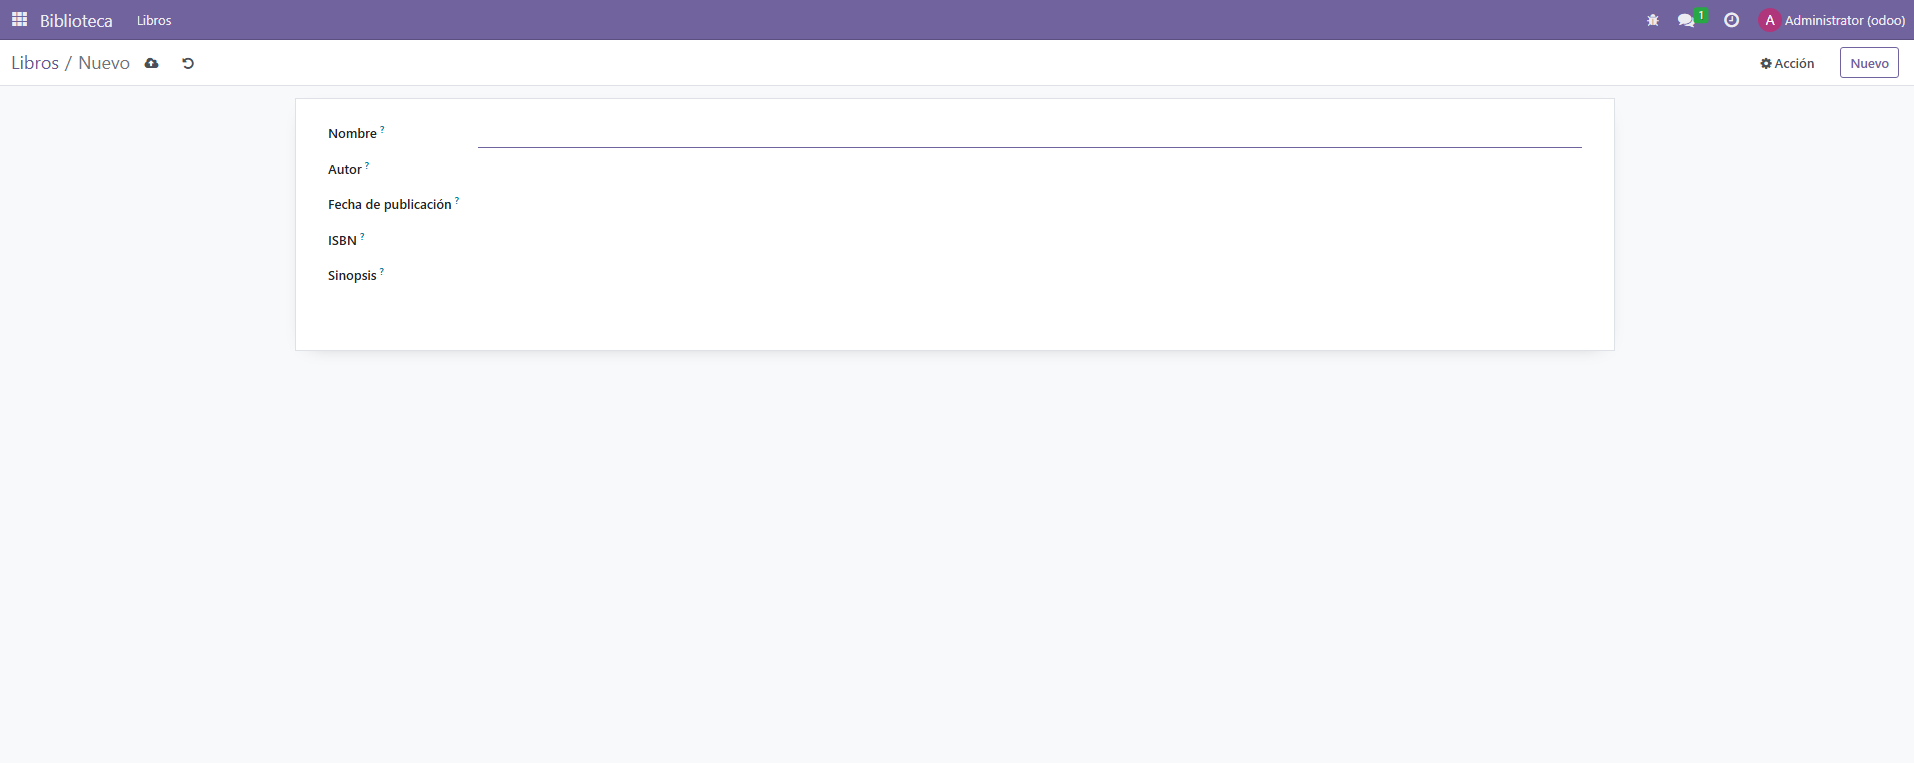
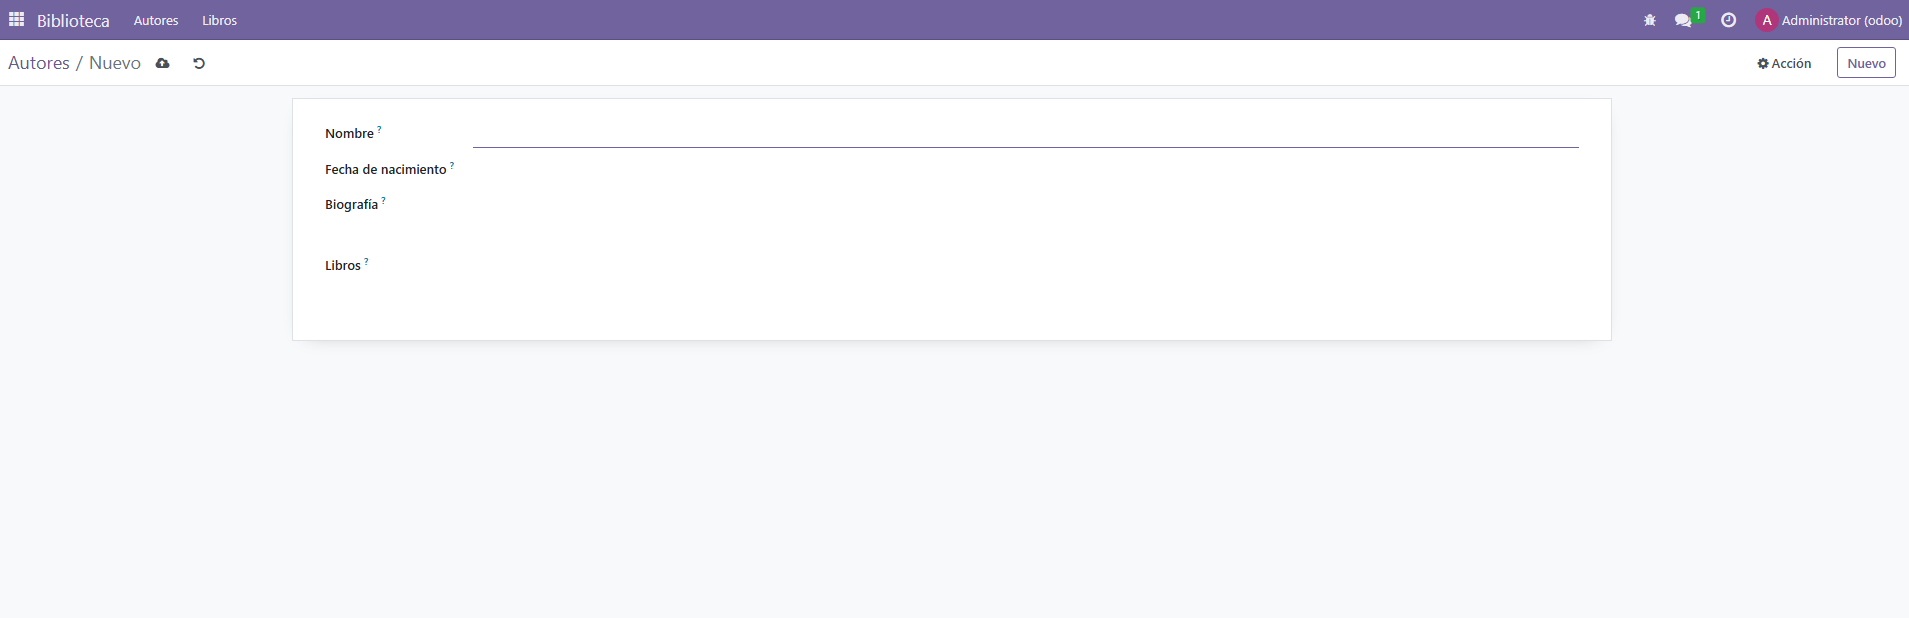
Corrigiendo errores x2

diff --git a/ut05/PR0502/PR0502.md b/ut05/PR0502/PR0502.md
@@ -221,14 +221,16 @@ Aquí vemos que funciona el modulo.
 11 - Vemos que en el menú nos aparece el modulo Biblioteca. Pinchamos ahí.
 ![Imagen 5](./imagenes/imagen5.png)
 
-12 - Ahora nos sale para poder crear un libro nuevo. Pinchamos ahí.
+12 - Ahora nos sale para poder crear un libro nuevo y un autor nuevo. Pinchamos primero en autores.
 ![Imagen 6](./imagenes/imagen6.png)
 
-13 - Nos aparece para crear el libro con los datos de él
-![Imagen 6](./imagenes/imagen6.png)
+13 - Y aquí podemos crear el autor
+![Imagen 7](./imagenes/imagen7.png)
 
 14 - Y aquí podemos crear el libro
-![Imagen 7](./imagenes/imagen7.png)
+![Imagen 8](./imagenes/imagen8.png)
+
+
 
 
 
